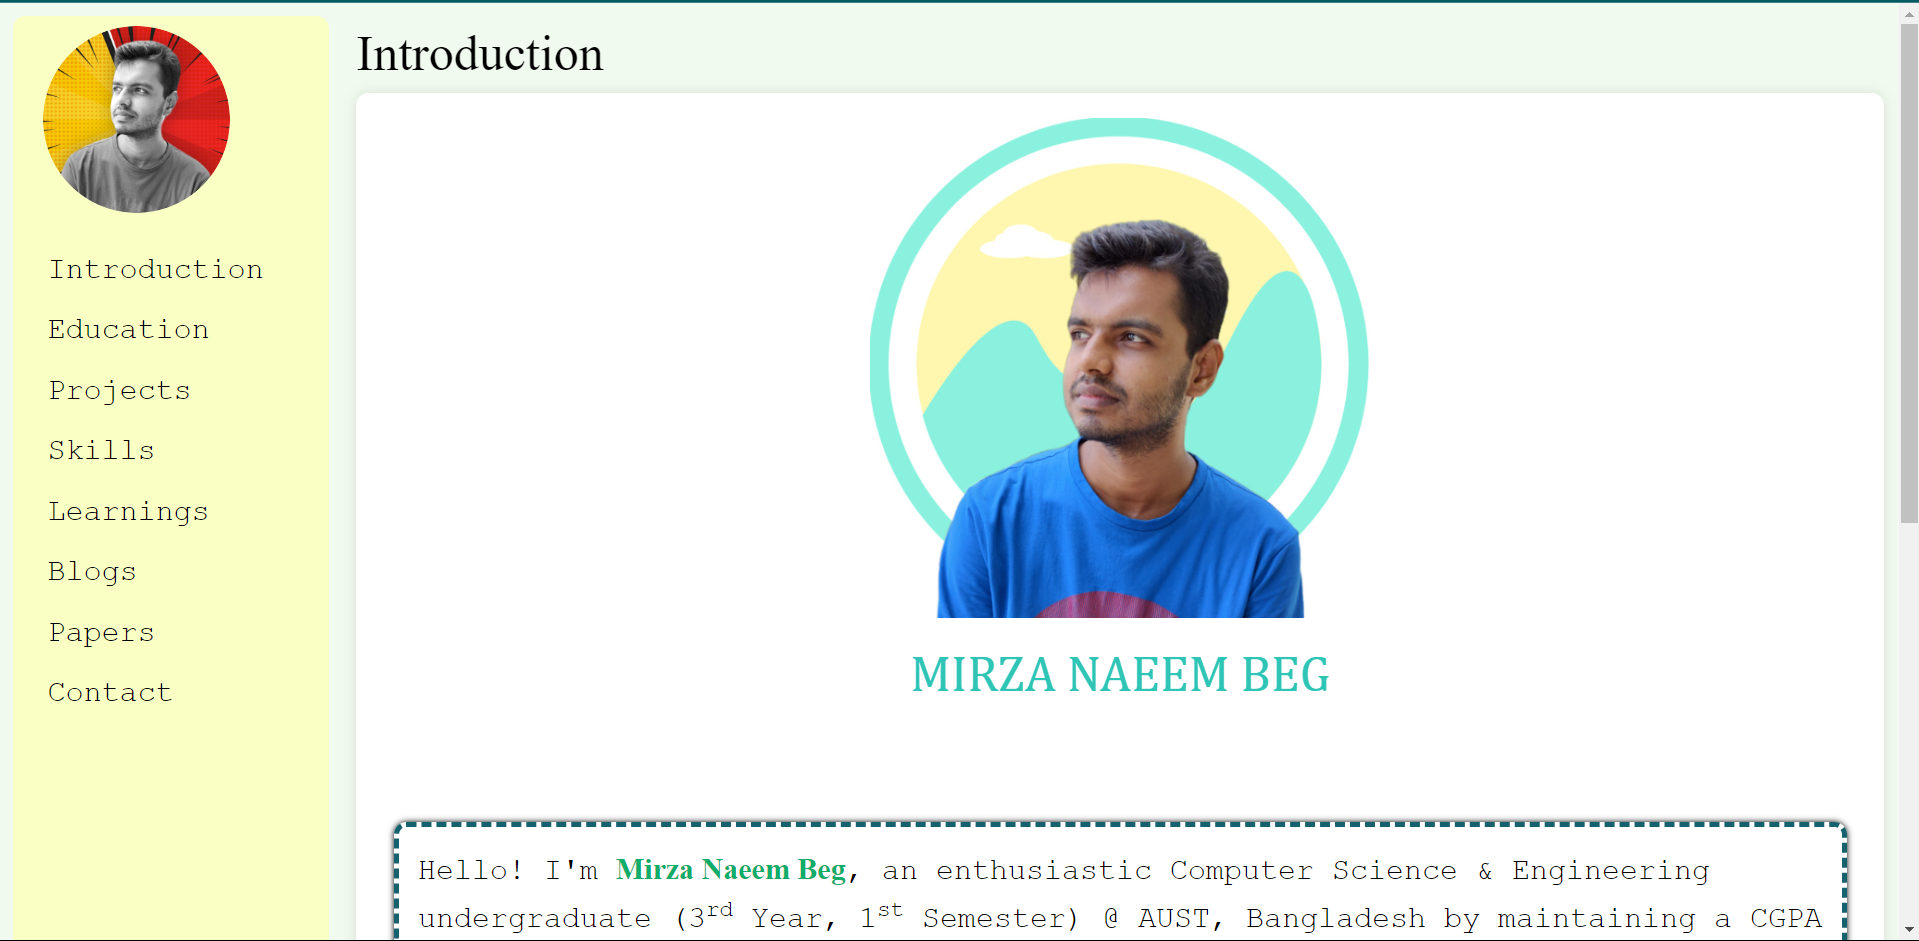
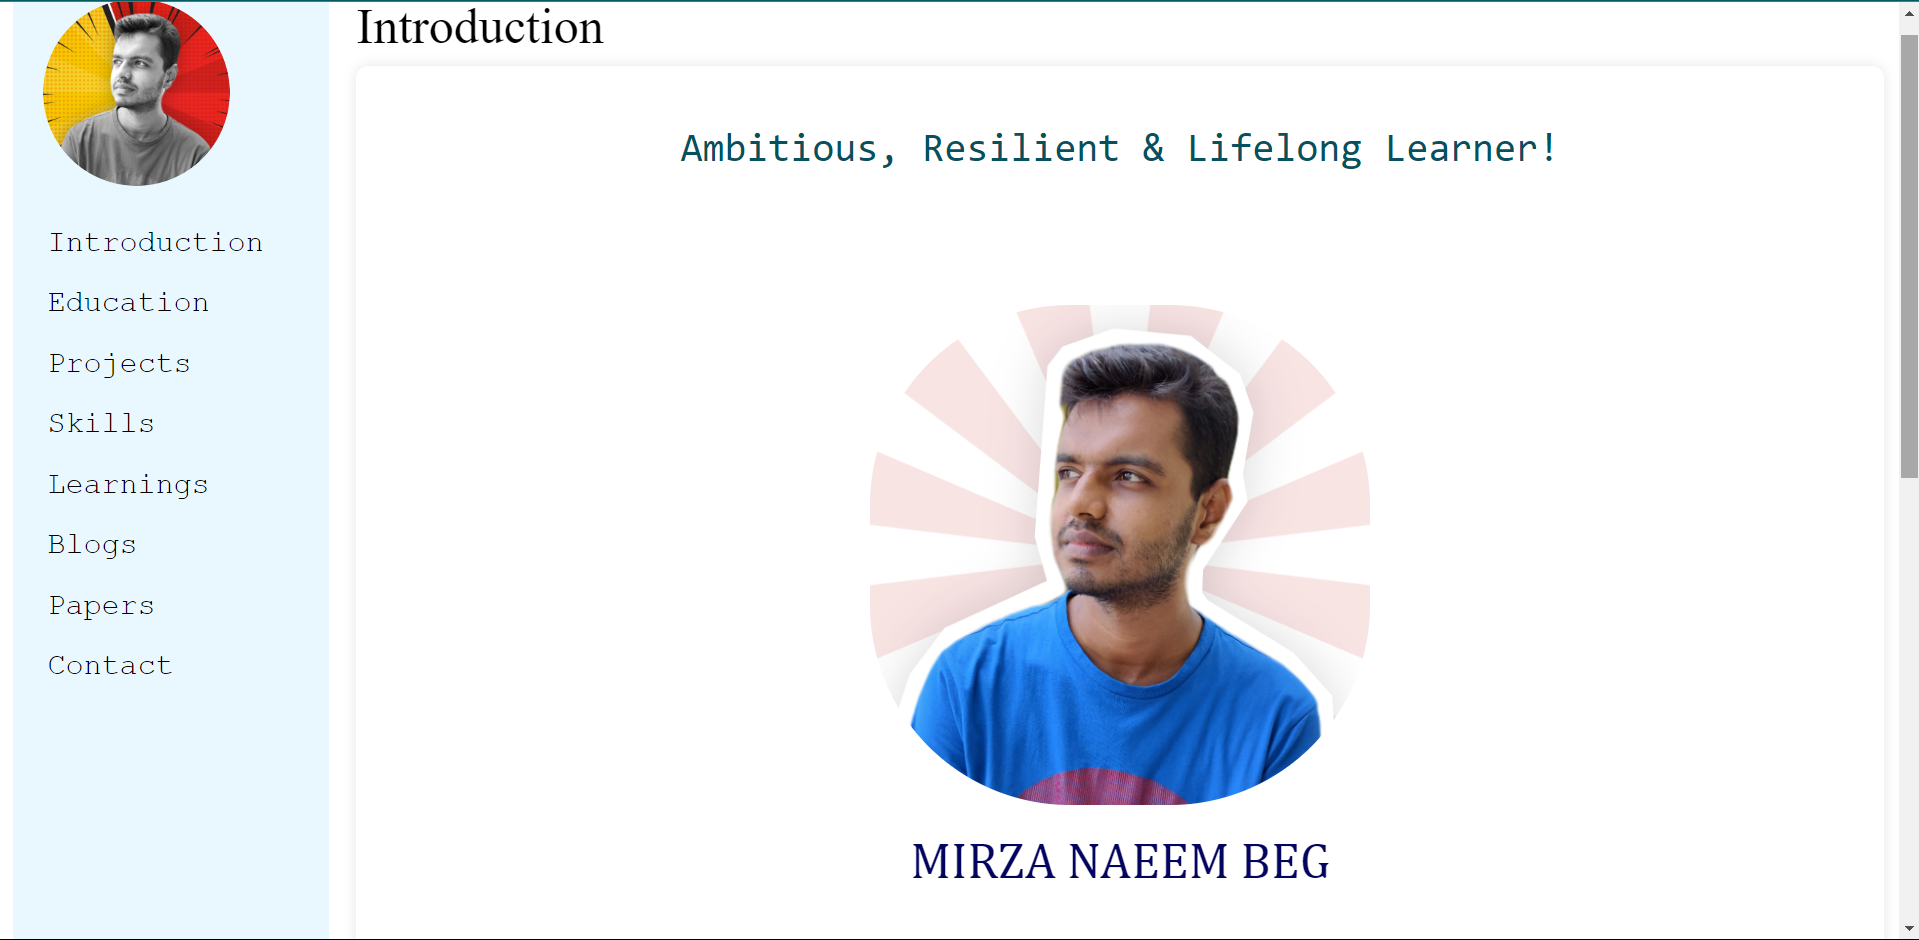
My badluck

diff --git a/styles/index.css b/styles/index.css
@@ -1,7 +1,7 @@
 /* General*/
 body {
     line-height: 1.6;
-    background-color: #f1faee;
+    background-color: #fff;
     color: black;
     margin: 0;
     padding: 0;
@@ -18,7 +18,7 @@ body {
     margin: 10px;
     margin-bottom: 30px;
     transition: all 0.3s;
-    background-color: #FAFFC4;
+    background-color: #e9f7ff;
     border-radius: 10px;
 }
 
@@ -119,12 +119,8 @@ strong{
     font-size: 2rem;
     font-weight: 100;
     text-align: center;
-    background-color: azure;
     margin-top: 20px;
     margin-bottom: 100px;
-    border: 1px #0ead69 solid;
-    border-radius: 50px;
-    box-shadow: 0 0 2px;
 }
 /* Responsive */
 @media (max-width: 767.98px) {

diff --git a/styles/contact.css b/styles/contact.css
@@ -1,7 +1,7 @@
 /* General*/
 body {
     line-height: 1.6;
-    background-color: #f1faee;
+    background-color: #ffffff;
     color: black;
     margin: 0;
     padding: 0;
@@ -18,7 +18,7 @@ body {
     margin: 10px;
     margin-bottom: 30px;
     transition: all 0.3s;
-    background-color: #FAFFC4;
+    background-color: #e9f7ff;
     border-radius: 10px;
 }
 
@@ -86,7 +86,9 @@ section {
     padding: 30px;
     box-shadow: 0 0 10px rgba(0,0,0,0.1);
 }
-
+.text-emphasis {
+    color: #3498db;
+}
 .contact-item {
     display: flex;
     align-items: center;

diff --git a/styles/blogs.css b/styles/blogs.css
@@ -1,7 +1,7 @@
 /* General*/
 body {
     line-height: 1.6;
-    background-color: #f1faee;
+    background-color: #ffffff;
     color: black;
     margin: 0;
     padding: 0;
@@ -18,7 +18,7 @@ body {
     margin: 10px;
     margin-bottom: 30px;
     transition: all 0.3s;
-    background-color: #FAFFC4;
+    background-color: #e9f7ff;
     border-radius: 10px;
 }
 

diff --git a/styles/education.css b/styles/education.css
@@ -1,7 +1,7 @@
 /* General*/
 body {
     line-height: 1.6;
-    background-color: #f1faee;
+    background-color: #fff;
     color: black;
     margin: 0;
     padding: 0;
@@ -18,7 +18,7 @@ body {
     margin: 10px;
     margin-bottom: 30px;
     transition: all 0.3s;
-    background-color: #FAFFC4;
+    background-color: #e9f7ff;
     border-radius: 10px;
 }
 

diff --git a/styles/learnings.css b/styles/learnings.css
@@ -1,7 +1,7 @@
 /* General*/
 body {
     line-height: 1.6;
-    background-color: #f1faee;
+    background-color: #fff;
     color: black;
     margin: 0;
     padding: 0;
@@ -18,7 +18,7 @@ body {
     margin: 10px;
     margin-bottom: 30px;
     transition: all 0.3s;
-    background-color: #FAFFC4;
+    background-color: #e9f7ff;
     border-radius: 10px;
 }
 

diff --git a/styles/papers.css b/styles/papers.css
@@ -1,7 +1,7 @@
 /* General*/
 body {
     line-height: 1.6;
-    background-color: #f1faee;
+    background-color: #fff;
     color: black;
     margin: 0;
     padding: 0;
@@ -18,7 +18,7 @@ body {
     margin: 10px;
     margin-bottom: 30px;
     transition: all 0.3s;
-    background-color: #FAFFC4;
+    background-color: #e9f7ff;
     border-radius: 10px;
 }
 

diff --git a/styles/projects.css b/styles/projects.css
@@ -1,7 +1,7 @@
 /* General*/
 body {
     line-height: 1.6;
-    background-color: #f1faee;
+    background-color: #fff;
     color: black;
     margin: 0;
     padding: 0;
@@ -21,7 +21,7 @@ body {
     margin: 10px;
     margin-bottom: 30px;
     transition: all 0.3s;
-    background-color: #FAFFC4;
+    background-color: #e9f7ff;
     border-radius: 10px;
 }
 

diff --git a/styles/skills.css b/styles/skills.css
@@ -1,7 +1,7 @@
 /* General*/
 body {
     line-height: 1.6;
-    background-color: #f1faee;
+    background-color: #fff;
     color: black;
     margin: 0;
     padding: 0;
@@ -18,7 +18,7 @@ body {
     margin: 10px;
     margin-bottom: 30px;
     transition: all 0.3s;
-    background-color: #FAFFC4;
+    background-color: #e9f7ff;
     border-radius: 10px;
 }
 

diff --git a/README.md b/README.md
@@ -1,1 +1,154 @@
-<h3>This is my very first portfolio project!</h3>
+
+---
+
+# Portfolio Project
+
+Welcome to my portfolio project repository! This project showcases my skills, projects, and achievements in the field of computer science and web development.
+
+## Table of Contents
+
+- [About](#about)
+- [Features](#features)
+- [Technologies Used](#technologies-used)
+- [Setup and Usage](#setup-and-usage)
+- [Contributing](#contributing)
+- [License](#license)
+
+## About
+
+This portfolio project serves as a comprehensive overview of my educational background, skills, and practical experience in various programming languages and technologies. It includes sections detailing my education, projects, skills, learnings, and more.
+
+## Features
+
+- **Introduction:** A brief introduction to myself and my career aspirations.
+- **Education:** Details about my academic journey, including courses completed and grades achieved.
+- **Projects:** Descriptions of significant group and individual projects I have completed, highlighting technologies used and skills demonstrated.
+- **Skills:** An overview of my technical skills, including programming languages, frameworks, and tools.
+- **Learnings:** Information on online courses, certifications, and workshops completed related to computer science.
+- **Papers:** Section for academic papers, if applicable.
+- **Blogs:** Details about ongoing and completed courses to further enhance my skills.
+- **Contact:** How to reach out to me for collaborations or inquiries.
+
+## Technologies Used
+
+- HTML5
+- CSS3 (Bootstrap framework)
+- Git/GitHub for version control & deployment
+
+## Setup and Usage
+
+Certainly! Here's a basic guide for setting up and using GitHub for deploying your project:
+
+### Setup and Usage
+
+#### Setting Up GitHub for Deployment
+
+1. **Create a GitHub Repository:**
+   - Go to [GitHub](https://github.com/) and sign in to your account.
+   - Click on the "New" button to create a new repository.
+   - Give your repository a name, optionally add a description, and choose whether it should be public or private.
+   - Click on the "Create repository" button.
+
+2. **Clone Your Repository:**
+   - Open your terminal or command prompt.
+   - Use `git clone` followed by your repository's URL to clone it to your local machine.
+     ```bash
+     git clone https://github.com/your-username/your-repository.git
+     ```
+
+3. **Navigate to Your Project:**
+   - Change directory into your project folder.
+     ```bash
+     cd your-repository
+     ```
+
+4. **Set Up Deployment Configuration:**
+   - If your project requires specific deployment settings (like environment variables or build configurations), create a `README.md` file in your project's root directory and configure it accordingly.
+
+5. **Commit and Push Your Changes:**
+   - Add your files, commit them with a meaningful message, and push to your GitHub repository.
+     ```bash
+     git add .
+     git commit -m "Initial commit"
+     git push origin main
+     ```
+
+#### Deploying Your Project
+
+1. **Setting Up GitHub Pages (for static sites):**
+   - Navigate to your repository on GitHub.
+   - Go to the "Settings" tab.
+   - Scroll down to the "GitHub Pages" section.
+   - Choose the branch you want to deploy (typically `main` or `master`) and the folder (usually `/root`).
+   - Click on "Save" or "Deploy" depending on the option available.
+
+2. **Continuous Integration/Continuous Deployment (CI/CD):**
+   - Set up a CI/CD pipeline using GitHub Actions or other CI/CD services (like Travis CI, CircleCI, etc.) if your project requires automated testing, building, and deployment.
+
+3. **Accessing Your Deployed Project:**
+   - Once deployed, your project will be accessible via the URL provided by GitHub Pages or your custom deployment setup.
+
+### Example README.md Setup
+
+```markdown
+# Project Name
+
+Brief project description here.
+
+## Setup and Usage
+
+### Setting Up GitHub for Deployment
+
+1. **Create a GitHub Repository:**
+   - Follow the steps to create a new repository on GitHub.
+
+2. **Clone Your Repository:**
+   ```bash
+   git clone https://github.com/your-username/your-repository.git
+   cd your-repository
+   ```
+
+3. **Navigate to Your Project:**
+   ```bash
+   cd your-project-folder
+   ```
+
+4. **Set Up Deployment Configuration:**
+   - Configure any necessary deployment settings in `README.md` or your project files.
+
+5. **Commit and Push Your Changes:**
+   ```bash
+   git add .
+   git commit -m "Initial commit"
+   git push origin main
+   ```
+
+### Deploying Your Project
+
+1. **Setting Up GitHub Pages:**
+   - Go to your repository's "Settings" tab on GitHub.
+   - Scroll down to the "GitHub Pages" section and configure deployment settings.
+
+2. **Continuous Integration/Continuous Deployment (CI/CD):**
+   - Optionally, set up CI/CD pipelines for automated testing and deployment.
+
+3. **Accessing Your Deployed Project:**
+   - Once deployed, access your project using the provided URL.
+```
+
+Replace placeholders (`your-username`, `your-repository`, `your-project-folder`, etc.) with your actual GitHub details and project specifics. This setup assumes you are deploying a static site or a project that can be hosted via GitHub Pages. If you have specific deployment requirements (like server-side applications or databases), additional setup and configuration may be needed.
+
+## Contributing
+
+If you'd like to contribute to this project, please follow these guidelines:
+- Fork the repository
+- Create your feature branch (`git checkout -b feature/YourFeature`)
+- Commit your changes (`git commit -am 'Add some feature'`)
+- Push to the branch (`git push origin feature/YourFeature`)
+- Create a new Pull Request
+
+## License
+
+This project is licensed under the [MIT License](link-to-license).
+
+---
